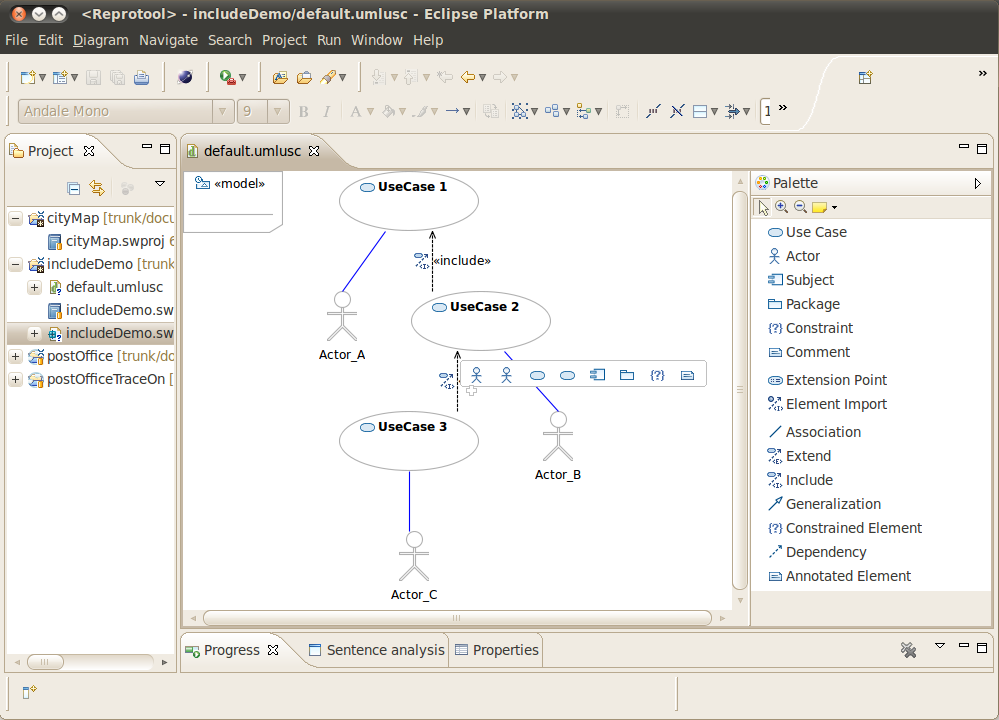
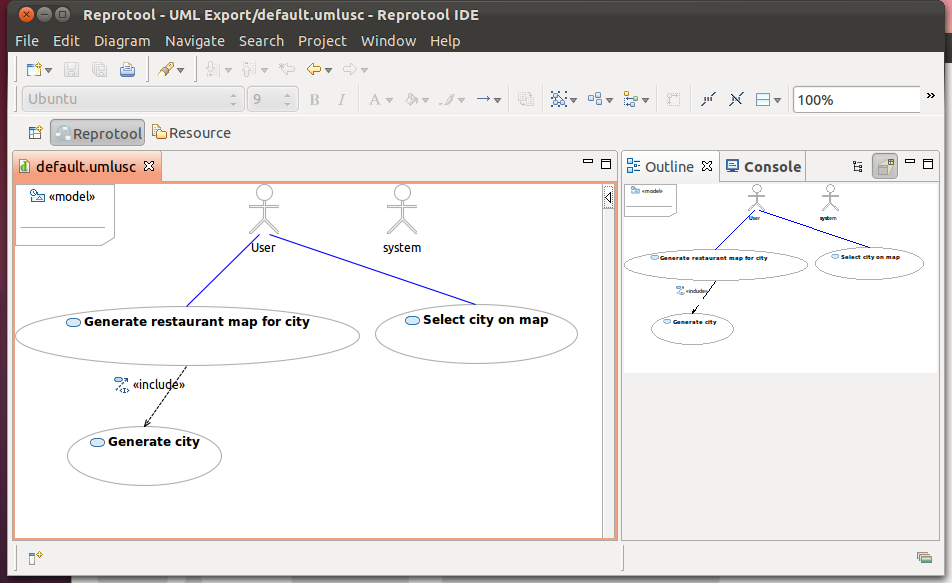
updated chapter about uml

diff --git a/documentation/latex-user/chapter-uml.tex b/documentation/latex-user/chapter-uml.tex
@@ -1,39 +1,40 @@
 \section{UML export}
 
-In this section we will show you how you can create and view \emph{UML} diagrams from a \emph{Reprotool} project. Although it is not
-absolutely neccesary, it is preferrable that you install now into reprotool the \emph{UML2 Tools} eclipse plugin.
-
-\subsection{Installing \emph{UML2 Tools} into \emph{Reprotool}}
-
-Download the following zip archive \url{http://download.eclipse.org/modeling/mdt/uml2tools/downloads/drops/0.10.0/I201103290512/mdt-uml2tools-Update-incubation-I201103290512.zip}
-on your filesystem. Now execute the command
-\begin{verbatim}
- Help / Install New Software...
-\end{verbatim}
-Now click on the \emph{Add} button. A small dialog box appears now. Here click the \emph{Archive} button and select the zip archive
-you just downloaded. Click OK. Now you are back to the \emph{Install} dialog. Here select the \emph{UML2 Tools (Incubation)} item and
-click next. Now simply proceed with the installation. After the successful installation, you will be asked to restart \emph{Eclipse}.
-Now that's it, you have successfully installed the \emph{UML2 Tools} eclipse package.
+In this section we will show you how you can create and view \emph{UML} diagrams from a \emph{Reprotool} project. You should already
+have in your workspace a project named \emph{UML Export}. We will use this project in the current chapter. If you do not
+have this project in your workspace, install the \emph{Reprotool example projects}. We use the
+\emph{UML2 Tools} eclipse plugin for displaying the \emph{UML} diagrams.
 
 \subsection{UML Use-Case diagram}
+The use-case diagram contains information about the actors and use-cases in the project. The diagram shows the relationship between
+actors and use-cases and the relationship between use-cases themselves.
 
-Right-click on the \emph{Reprotool} project file in the \emph{Project explorer} and select the \emph{Conwert SW project to UML use case
+Right-click on the \emph{umlExport.swproj} project file in the \emph{Project explorer} and select the \emph{Conwert SW project to UML use case
 diagram} command. After that you should note a new file in the \emph{Project explorer} with the \emph{.swproj.uc.uml} file extension.
 Right-click this file and select the \emph{Initialize Use Case Diagram} command. Now just click \emph{Finish}. An UML diagram should
-fire up in a new editor instance. In the next figure you can see a use-case diagram of the \emph{IncludeDemo} example project.
-
-\newpage
+fire up in a new editor instance. You should see the UML diagram similar to the one in this figure:
 
 \begin{figure}[ht]
   \centering
-  \includegraphics[height=280pt]{images/reprotoolUCDiagram}
-  \caption{Use-case diagram of the \emph{IncludeDemo Reprotool} example project}
+  \includegraphics[height=250pt]{images/reprotoolUCDiagram}
+  \caption{UML Use-case diagram of the \emph{UML Export} example project}
   \label{fig:reprotoolUCDiagram}
 \end{figure}
 
-\subsection{UML Class diagram}
+\newpage
 
-Right-click on the \emph{Reprotool} project file in the \emph{Project explorer} and select the \emph{Conwert SW project to UML class
+\subsection{UML Class diagram}
+The \emph{UML Class diagram} contains the information about the actors in the software project and their actions. These actions can
+be determined by running the linguistic analysis and if neccesary refined by manual analysis.
+
+Right-click on the \emph{umlExport.swproj} project file in the \emph{Project explorer} and select the \emph{Conwert SW project to UML class
 diagram} command. After that you should note a new file in the \emph{Project explorer} with the \emph{.swproj.class.uml} file extension.
 Right-click this file and select the \emph{Initialize Class Diagram} command. Now just click \emph{Finish}. An UML class diagram should
-fire up in a new editor instance.
+fire up in a new editor instance. You should now face the UML class diagram similar to this one:
+
+\begin{figure}[ht]
+  \centering
+  \includegraphics[height=250pt]{images/reprotoolClassDiagram}
+  \caption{UML Class diagram of the \emph{UML Export} example project}
+  \label{fig:reprotoolClassDiagram}
+\end{figure}

diff --git a/documentation/latex-user/chapter-newProj.tex b/documentation/latex-user/chapter-newProj.tex
@@ -2,8 +2,9 @@
 
 In this section we will walk through the process of creating a new simple \emph{Reprotool} project named \emph{PostOffice}.
 Here, we are going to create the project manually. You will not need the project that we are creating here in the later parts
-of this documentation. The chapter following this chapter deals with importing use-cases into \emph{Reprotool} project.
-All exercises in this documentation will be based on the project from the next chapter, not this one.
+of this documentation. The chapter following this chapter deals with importing use-cases into \emph{Reprotool} projects.
+All exercises in this documentation will be based on the project from the next chapter or on the \emph{Reprotool} example projects,
+not on the \emph{PostOffice} project from this chapter.
 
 \subsection{\emph{PostOffice} project description}
 We will create a simple \emph{PostOffice} project that describes how a letter is written and then taken to the post office.
